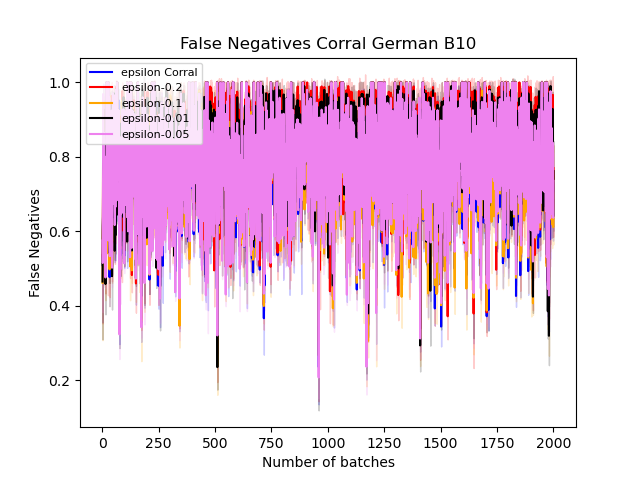
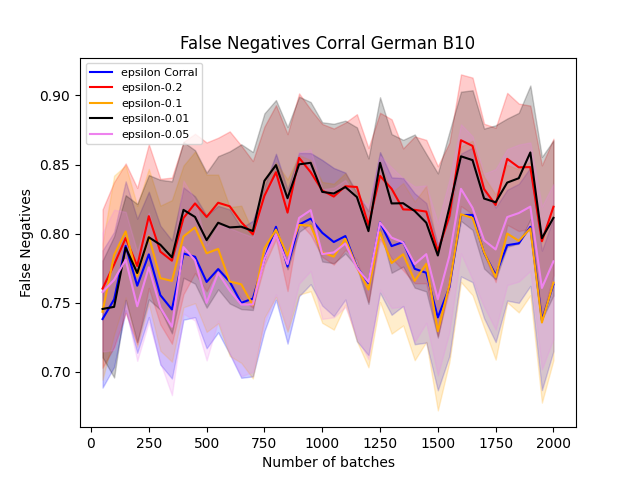
small changes

diff --git a/test_modelsel.py b/test_modelsel.py
@@ -151,11 +151,16 @@ def run_mahalanobis_experiments(dataset, alphas, modselalgo, num_experiments, ba
 
 
 def plot_modsel_probabilities(algo_name, dataset, num_batches, batch_size, modselalgo, 
-	results_dictionary, hyperparams, colors):
+	results_dictionary, hyperparams, colors, averaging_window = 1):
+
+	Ts = np.arange(num_batches)+1
+	color_index = 0
+
+
 	modsel_results = results_dictionary["{} {}".format(algo_name, modselalgo)]
 
 
-	probs =[x["modselect_info"] for x in modsel_results]
+	probs =np.array([x["modselect_info"] for x in modsel_results])
 
 	color_index = 1
 
@@ -185,27 +190,37 @@ def plot_modsel_probabilities(algo_name, dataset, num_batches, batch_size, modse
 
 
 def plot_results(algo_name, dataset, results_type, num_batches, batch_size, modselalgo, 
-	results_dictionary, hyperparams, colors, cummulative_plot = False ):
+	results_dictionary, hyperparams, colors, cummulative_plot = False, averaging_window = 1 ):
+
+
+	Ts = (np.arange(num_batches/averaging_window)+1)*averaging_window
+	color_index = 0
 
 
 	if results_type != "instantaneous_regrets" and cummulative_plot == True:
 		raise ValueError("Results type {} does not support cummulative plot".format(results_type))
 
 
-	##### PLOTTING instantaneous regrets.
+	##### PLOTTING modsel results.
 	modsel_results = results_dictionary["{} {}".format(algo_name, modselalgo)]
 
 	color_index = 0
 
 
 	if cummulative_plot:
-		modsel_stats = [np.cumsum(x[results_type]) for x in modsel_results]
+		modsel_stats = np.array([np.cumsum(x[results_type]) for x in modsel_results])
 	else:
-		modsel_stats = [x[results_type] for x in modsel_results]
+		modsel_stats = np.array([x[results_type] for x in modsel_results])
 
 
 	modsel_stat_mean = np.mean(modsel_stats,0)
 	modsel_stat_std = np.std(modsel_stats,0)
+
+
+	#IPython.embed()
+
+	modsel_stat_mean = np.mean(modsel_stat_mean.reshape(int(num_batches/averaging_window), averaging_window), 1)
+	modsel_stat_std = np.mean(modsel_stat_std.reshape(int(num_batches/averaging_window), averaging_window), 1)
 
 
 
@@ -217,21 +232,39 @@ def plot_results(algo_name, dataset, results_type, num_batches, batch_size, mods
 
 
 	
-	# Plot epsilon-greedy models
+	# Plot hyper sweep results
 
 	for hyperparam in hyperparams:
 
 		hyperparam_results = results_dictionary["{}-{}".format(algo_name, hyperparam)] 
 		if cummulative_plot:
-			hyperparam_stats = [np.cumsum(x[results_type]) for x in hyperparam_results]
+			hyperparam_stats = np.array([np.cumsum(x[results_type]) for x in hyperparam_results])
 		else:
-			hyperparam_stats = [x[results_type] for x in hyperparam_results]
+			hyperparam_stats = np.array([x[results_type] for x in hyperparam_results])
 
-		#IPython.embed()
+
+
 
 
 		hyperparam_results_mean = np.mean(hyperparam_stats,0)
 		hyperparam_results_std = np.std(hyperparam_stats,0)
+
+
+
+
+		hyperparam_results_mean = np.mean(hyperparam_results_mean.reshape(int(num_batches/averaging_window), averaging_window), 1)
+		hyperparam_results_std = np.mean(hyperparam_results_std.reshape(int(num_batches/averaging_window), averaging_window), 1)
+
+
+
+
+
+
+
+
+		#IPython.embed()
+		
+
 
 		plt.plot(Ts, hyperparam_results_mean, color = colors[color_index] ,  label = "{}-{}".format(algo_name,hyperparam))
 		plt.fill_between(Ts, hyperparam_results_mean-.5*hyperparam_results_std, 
@@ -301,8 +334,11 @@ def plot_results(algo_name, dataset, results_type, num_batches, batch_size, mods
 
 USE_RAY = True
 
+RUN_EPSILON = False
 PLOT_EPSILON = True
+
 PLOT_MAHALANOBIS = True
+RUN_MAHALANOBIS = False
 
 
 ## What is the fractrion of rejected labels for each algorithm and each dataset. 
@@ -324,9 +360,14 @@ num_experiments = 10
 
 results_dictionary = dict([])
 
-baseline_results, baseline_model = run_train_baseline(dataset, num_experiments)
 
-results_dictionary["baseline"] = [x[1] for x in baseline_results]
+
+
+if RUN_EPSILON or RUN_MAHALANOBIS:
+
+	baseline_results, baseline_model = run_train_baseline(dataset, num_experiments)
+
+	results_dictionary["baseline"] = [x[1] for x in baseline_results]
 
 
 # results_dictionary["epsilon {}".format(modselalgo)] = epsilon_greedy_modsel_results
@@ -335,7 +376,7 @@ results_dictionary["baseline"] = [x[1] for x in baseline_results]
 ### Run epsilon-greedy model selection experiments
 
 
-if PLOT_EPSILON:
+if RUN_EPSILON:
 
 	epsilon_greedy_modsel_results_tuple, epsilon_greedy_results_list  =	run_epsilon_greedy_experiments(dataset, epsilons, modselalgo, num_experiments, baseline_model, num_batches, batch_size, decaying_epsilon, num_opt_steps = 1000, 
 		opt_batch_size = 20, representation_layer_size = 10, restart_model_full_minimization = False)
@@ -346,7 +387,7 @@ if PLOT_EPSILON:
 		results_dictionary[eps_res_tuple[0]] = eps_res_tuple[1]
 
 
-if PLOT_MAHALANOBIS:
+if RUN_MAHALANOBIS:
 	mahalanobis_modsel_results_tuple, mahalanobis_results_list = run_mahalanobis_experiments(dataset, alphas, modselalgo, num_experiments, baseline_model, num_batches, batch_size, decaying_epsilon, num_opt_steps = 1000, 
 		opt_batch_size = 20, representation_layer_size = 10, restart_model_full_minimization = False)
 
@@ -355,17 +396,22 @@ if PLOT_MAHALANOBIS:
 		results_dictionary[mahalanobis_res_tuple[0]] = mahalanobis_res_tuple[1]	
 
 
-Ts = np.arange(num_batches)+1
-color_index = 0
+
 
 
 
 pickle_results_filename = "results_modsel_{}_T{}_B{}.p".format(dataset, num_batches,batch_size )
 
+if RUN_EPSILON or RUN_MAHALANOBIS:
+	pickle.dump(results_dictionary, 
+	    open("ModselResults/{}".format(pickle_results_filename), "wb"))
 
-pickle.dump(results_dictionary, 
-    open("ModselResults/{}".format(pickle_results_filename), "wb"))
 
+results_dictionary = pickle.load(open("ModselResults/{}".format(pickle_results_filename), "rb")) 
+
+
+Ts = np.arange(num_batches)+1
+color_index = 0
 
 
 # IPython.embed()
@@ -384,23 +430,23 @@ if PLOT_EPSILON:
 
 
 	plot_results("epsilon", dataset, "instantaneous_regrets", num_batches, batch_size, modselalgo, 
-		results_dictionary, epsilons, colors, cummulative_plot = True )
+		results_dictionary, epsilons, colors, cummulative_plot = True , averaging_window = 50)
 
 
 	plot_results("epsilon", dataset, "instantaneous_accuracies", num_batches, batch_size, modselalgo, 
-		results_dictionary, epsilons, colors, cummulative_plot = False )
+		results_dictionary, epsilons, colors, cummulative_plot = False, averaging_window = 50 )
 
 	plot_results("epsilon", dataset, "num_negatives", num_batches, batch_size, modselalgo, 
-		results_dictionary, epsilons, colors, cummulative_plot = False )
+		results_dictionary, epsilons, colors, cummulative_plot = False, averaging_window = 50 )
 
 	plot_results("epsilon", dataset, "num_positives", num_batches, batch_size, modselalgo, 
-		results_dictionary, epsilons, colors, cummulative_plot = False )
+		results_dictionary, epsilons, colors, cummulative_plot = False, averaging_window = 50 )
 
 	plot_results("epsilon", dataset, "false_neg_rates", num_batches, batch_size, modselalgo, 
-		results_dictionary, epsilons, colors, cummulative_plot = False )
+		results_dictionary, epsilons, colors, cummulative_plot = False, averaging_window = 50 )
 
 	plot_results("epsilon", dataset, "false_positive_rates", num_batches, batch_size, modselalgo, 
-		results_dictionary, epsilons, colors, cummulative_plot = False )
+		results_dictionary, epsilons, colors, cummulative_plot = False, averaging_window = 50 )
 
 
 
@@ -421,23 +467,23 @@ if PLOT_MAHALANOBIS:
 
 
 	plot_results("alpha", dataset, "instantaneous_regrets", num_batches, batch_size, modselalgo, 
-		results_dictionary, alphas, colors, cummulative_plot = True )
+		results_dictionary, alphas, colors, cummulative_plot = True , averaging_window = 50)
 
 
 	plot_results("alpha", dataset, "instantaneous_accuracies", num_batches, batch_size, modselalgo, 
-		results_dictionary, alphas, colors, cummulative_plot = False )
+		results_dictionary, alphas, colors, cummulative_plot = False, averaging_window = 50 )
 
 	plot_results("alpha", dataset, "num_negatives", num_batches, batch_size, modselalgo, 
-		results_dictionary, alphas, colors, cummulative_plot = False )
+		results_dictionary, alphas, colors, cummulative_plot = False , averaging_window = 50)
 
 	plot_results("alpha", dataset, "num_positives", num_batches, batch_size, modselalgo, 
-		results_dictionary, alphas, colors, cummulative_plot = False )
+		results_dictionary, alphas, colors, cummulative_plot = False , averaging_window = 50)
 
 	plot_results("alpha", dataset, "false_neg_rates", num_batches, batch_size, modselalgo, 
-		results_dictionary, alphas, colors, cummulative_plot = False )
+		results_dictionary, alphas, colors, cummulative_plot = False , averaging_window = 50)
 
 	plot_results("alpha", dataset, "false_positive_rates", num_batches, batch_size, modselalgo, 
-		results_dictionary, alphas, colors, cummulative_plot = False )
+		results_dictionary, alphas, colors, cummulative_plot = False , averaging_window = 50)
 
 
 

diff --git a/algorithms.py b/algorithms.py
@@ -107,11 +107,11 @@ def train_epsilon_greedy(dataset, baseline_model, num_batches, batch_size,
             total_num_negatives = torch.sum(~mask)
 
             #### FALSE NEGATIVE RATE
-            false_neg_rate = torch.sum(~mask*~boolean_labels_y)*1.0/(torch.sum(~mask)+.00000000001)
+            false_neg_rate = torch.sum(~mask*boolean_labels_y)*1.0/(torch.sum(~mask)+.00000000001)
 
 
             #### FALSE POSITIVE RATE            
-            false_positive_rate = torch.sum(mask*boolean_labels_y)*1.0/(torch.sum(mask)+.00000000001)
+            false_positive_rate = torch.sum(mask*~boolean_labels_y)*1.0/(torch.sum(mask)+.00000000001)
 
 
 
@@ -234,11 +234,11 @@ def train_mahalanobis(dataset, baseline_model, num_batches, batch_size,
             total_num_negatives = torch.sum(~optimistic_predictions)
 
             #### FALSE NEGATIVE RATE
-            false_neg_rate = torch.sum(~optimistic_predictions*~boolean_labels_y)*1.0/(torch.sum(~optimistic_predictions)+.00000000001)
+            false_neg_rate = torch.sum(~optimistic_predictions*boolean_labels_y)*1.0/(torch.sum(~optimistic_predictions)+.00000000001)
 
 
             #### FALSE POSITIVE RATE            
-            false_positive_rate = torch.sum(optimistic_predictions*boolean_labels_y)*1.0/(torch.sum(optimistic_predictions)+.00000000001)
+            false_positive_rate = torch.sum(optimistic_predictions*~boolean_labels_y)*1.0/(torch.sum(optimistic_predictions)+.00000000001)
             
             num_positives.append(total_num_positives.item())
             num_negatives.append(total_num_negatives.item())

diff --git a/algorithmsmodsel.py b/algorithmsmodsel.py
@@ -226,11 +226,11 @@ def train_epsilon_greedy_modsel(dataset, baseline_model, num_batches, batch_size
             total_num_negatives = torch.sum(~mask)
 
             #### FALSE NEGATIVE RATE
-            false_neg_rate = torch.sum(~mask*~boolean_labels_y)*1.0/(torch.sum(~mask)+.00000000001)
+            false_neg_rate = torch.sum(~mask*boolean_labels_y)*1.0/(torch.sum(~mask)+.00000000001)
 
 
             #### FALSE POSITIVE RATE            
-            false_positive_rate = torch.sum(mask*boolean_labels_y)*1.0/(torch.sum(mask)+.00000000001)
+            false_positive_rate = torch.sum(mask*~boolean_labels_y)*1.0/(torch.sum(mask)+.00000000001)
             
             # IPython.embed()
             # raise ValueError("sdfsdf")
@@ -379,12 +379,15 @@ def train_mahalanobis_modsel(dataset, baseline_model, num_batches, batch_size,
             total_num_negatives = torch.sum(~optimistic_predictions)
 
             #### FALSE NEGATIVE RATE
-            false_neg_rate = torch.sum(~optimistic_predictions*~boolean_labels_y)*1.0/(torch.sum(~optimistic_predictions)+.00000000001)
+            false_neg_rate = torch.sum(~optimistic_predictions*boolean_labels_y)*1.0/(torch.sum(~optimistic_predictions)+.00000000001)
 
 
             #### FALSE POSITIVE RATE            
-            false_positive_rate = torch.sum(optimistic_predictions*boolean_labels_y)*1.0/(torch.sum(optimistic_predictions)+.00000000001)
+            false_positive_rate = torch.sum(optimistic_predictions*~boolean_labels_y)*1.0/(torch.sum(optimistic_predictions)+.00000000001)
             
+
+
+
 
 
 
